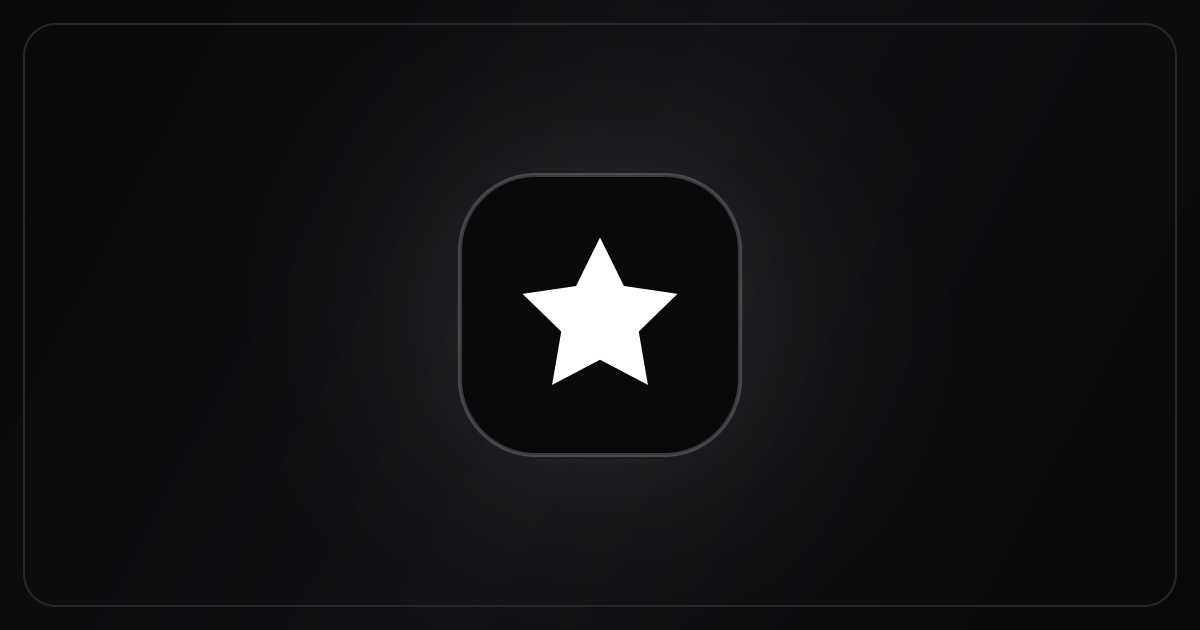
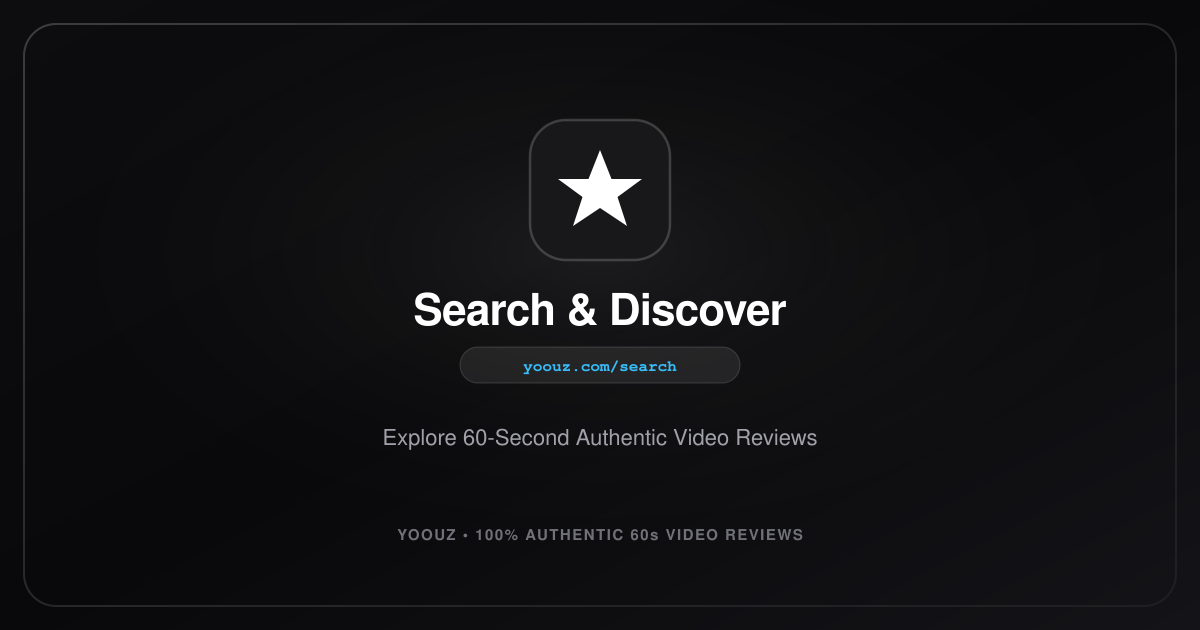
feat: implement dynamic OpenGraph image generation
Introduce `generateBrandOgCardBuffer` in `server.ts` to dynamically render custom OpenGraph cards and update meta tags to use the new API-driven endpoint.

diff --git a/server.ts b/server.ts
@@ -18254,6 +18254,65 @@ app.get('/api/og-preview-v2', async (req, res) => {
       }
     }
 
+    // Dynamic brand & page OpenGraph share card generator (Centered logo + Title/Button metadata)
+    async function generateBrandOgCardBuffer(title?: string, subtitle?: string, pathText?: string): Promise<Buffer> {
+      const safeTitle = (title || "Yoouz").replace(/&/g, "&amp;").replace(/</g, "&lt;").replace(/>/g, "&gt;").replace(/"/g, "&quot;");
+      const safeSubtitle = (subtitle || "Authentic 60-Second Video Reviews").replace(/&/g, "&amp;").replace(/</g, "&lt;").replace(/>/g, "&gt;").replace(/"/g, "&quot;");
+      let displayPath = (pathText || "yoouz.com").replace(/^https?:\/\//i, '').replace(/&/g, "&amp;").replace(/</g, "&lt;").replace(/>/g, "&gt;");
+      if (!displayPath.startsWith('yoouz.com')) {
+        displayPath = 'yoouz.com' + (displayPath.startsWith('/') ? displayPath : '/' + displayPath);
+      }
+
+      const svg = `<svg xmlns="http://www.w3.org/2000/svg" viewBox="0 0 1200 630" width="1200" height="630">
+  <defs>
+    <linearGradient id="brandBg" x1="0%" y1="0%" x2="100%" y2="100%">
+      <stop offset="0%" stop-color="#0e0e12"/>
+      <stop offset="50%" stop-color="#09090b"/>
+      <stop offset="100%" stop-color="#14141a"/>
+    </linearGradient>
+    <radialGradient id="brandGlow" cx="50%" cy="38%" r="55%">
+      <stop offset="0%" stop-color="#ffffff" stop-opacity="0.09"/>
+      <stop offset="100%" stop-color="#000000" stop-opacity="0"/>
+    </radialGradient>
+    <linearGradient id="brandBorderGrad" x1="0%" y1="0%" x2="100%" y2="100%">
+      <stop offset="0%" stop-color="rgba(255,255,255,0.22)"/>
+      <stop offset="100%" stop-color="rgba(255,255,255,0.06)"/>
+    </linearGradient>
+  </defs>
+
+  <!-- Background Base -->
+  <rect width="1200" height="630" fill="url(#brandBg)"/>
+  <rect width="1200" height="630" fill="url(#brandGlow)"/>
+
+  <!-- Outer Frame -->
+  <rect x="24" y="24" width="1152" height="582" rx="32" fill="none" stroke="url(#brandBorderGrad)" stroke-width="2"/>
+
+  <!-- Centered Logo Emblem Squircle in middle -->
+  <g transform="translate(530, 115)">
+    <rect width="140" height="140" rx="36" fill="#18181b" stroke="rgba(255,255,255,0.22)" stroke-width="2.5"/>
+    <!-- White Star Icon -->
+    <path d="M70 28 L81.5 57 L112 57 L87.5 75 L97 104 L70 86 L43 104 L52.5 75 L28 57 L58.5 57 Z" fill="#ffffff"/>
+  </g>
+
+  <!-- Title / Button Name -->
+  <text x="600" y="325" text-anchor="middle" fill="#ffffff" font-family="-apple-system, BlinkMacSystemFont, 'SF Pro Display', 'Segoe UI', Roboto, Helvetica, sans-serif" font-weight="800" font-size="44" letter-spacing="-0.02em">${safeTitle}</text>
+
+  <!-- URL Path Pill Badge -->
+  <g transform="translate(600, 370)">
+    <rect x="-160" y="-20" width="320" height="40" rx="20" fill="rgba(255,255,255,0.08)" stroke="rgba(255,255,255,0.16)" stroke-width="1"/>
+    <text x="0" y="6" text-anchor="middle" fill="#38bdf8" font-family="-apple-system, BlinkMacSystemFont, 'SF Mono', Menlo, monospace" font-weight="600" font-size="17">${displayPath}</text>
+  </g>
+
+  <!-- Subtitle -->
+  <text x="600" y="450" text-anchor="middle" fill="#a1a1aa" font-family="-apple-system, BlinkMacSystemFont, 'SF Pro Text', 'Segoe UI', Roboto, Helvetica, sans-serif" font-weight="500" font-size="22">${safeSubtitle}</text>
+
+  <!-- Bottom Brand Footnote -->
+  <text x="600" y="540" text-anchor="middle" fill="#71717a" font-family="-apple-system, BlinkMacSystemFont, 'SF Pro Text', 'Segoe UI', Roboto, Helvetica, sans-serif" font-weight="600" font-size="15" letter-spacing="0.1em">YOOUZ • 100% AUTHENTIC 60s VIDEO REVIEWS</text>
+</svg>`;
+
+      return await sharp(Buffer.from(svg)).png().toBuffer();
+    }
+
     // High-fidelity video share card buffer generator
     async function generateVideoShareCardBuffer(videoId: string, queryParams: Record<string, any>, baseUrl: string): Promise<Buffer> {
       let thumbBuf: Buffer | null = null;
@@ -19006,12 +19065,11 @@ app.get('/api/og-preview-v2', async (req, res) => {
       return res.end(finalImage);
     }
 
-    app.all(['/api/og', '/api/og.png', '/api/og-image', '/api/og-image.png', '/og-banner.png', '/og-image.png'], async (req: any, res: any) => {
+    app.all(['/api/og', '/api/og.png', '/api/og-image', '/api/og-image.png', '/og-banner.png', '/og-image.png', '/api/og-banner/brand.png', '/api/og-banner/page.png', '/api/og-banner/brand'], async (req: any, res: any) => {
       try {
         const host = req.headers['x-forwarded-host'] || req.headers.host || 'yoouz.com';
         const protocol = (!host.includes('localhost') && !host.includes('127.0.0.1')) ? 'https' : (req.protocol || 'http');
         const baseUrl = `${protocol}://${host}`;
-        const ogBannerPath = path.join(process.cwd(), 'public', 'og-banner.png');
         const query = sanitizeQueryParams(req.query);
 
         let type = (query.type as string) || "";
@@ -19020,13 +19078,6 @@ app.get('/api/og-preview-v2', async (req, res) => {
           else if (query.domain || query.logoUrl || query.website || query.place || query.placeId) type = "place";
           else if (query.avatarUrl || query.handle || query.creator || query.user) type = "creator";
           else type = "homepage";
-        }
-
-        if (type === 'homepage' && fs.existsSync(ogBannerPath)) {
-          res.setHeader("Content-Type", "image/png");
-          res.setHeader("Access-Control-Allow-Origin", "*");
-          res.setHeader("Cache-Control", "public, max-age=31536000, immutable");
-          return res.sendFile(ogBannerPath);
         }
 
         if (type === 'video') {
@@ -19048,54 +19099,19 @@ app.get('/api/og-preview-v2', async (req, res) => {
           return serveCreatorOgImage(req, res, baseUrl);
         }
 
-        // Default fallback for non-video OG images (Clean centered brand icon emblem, NO text)
-        const defaultSvg = `<svg width="1200" height="630" viewBox="0 0 1200 630" fill="none" xmlns="http://www.w3.org/2000/svg">
-          <defs>
-            <linearGradient id="defGrad" x1="0" y1="0" x2="1200" y2="630" gradientUnits="userSpaceOnUse">
-              <stop offset="0%" stop-color="#09090b"/>
-              <stop offset="50%" stop-color="#111115"/>
-              <stop offset="100%" stop-color="#09090b"/>
-            </linearGradient>
-            <radialGradient id="defStarGlow" cx="600" cy="315" r="400" gradientUnits="userSpaceOnUse">
-              <stop offset="0%" stop-color="#ffffff" stop-opacity="0.14"/>
-              <stop offset="50%" stop-color="#ffffff" stop-opacity="0.03"/>
-              <stop offset="100%" stop-color="#000000" stop-opacity="0"/>
-            </radialGradient>
-          </defs>
+        // For all non-video pages/buttons (Homepage, Business, Search, Following, Messages, etc.)
+        // Generate a dynamic card featuring OUR LOGO in the middle + Title/Button metadata
+        const titleParam = (query.title as string) || (query.name as string) || "Yoouz";
+        const subtitleParam = (query.subtitle as string) || (query.desc as string) || "Authentic 60-Second Video Reviews";
+        const pathParam = (query.path as string) || (query.button as string) || (query.url as string) || "yoouz.com";
 
-          <!-- Background Base -->
-          <rect width="1200" height="630" fill="url(#defGrad)"/>
-          <rect width="1200" height="630" fill="url(#defStarGlow)"/>
-
-          <!-- Outer Border Frame -->
-          <rect x="24" y="24" width="1152" height="582" rx="32" fill="none" stroke="#27272a" stroke-width="2"/>
-
-          <!-- Centered Icon Only (Dark Squircle with White Star Emblem) -->
-          <g transform="translate(460, 175)">
-            <rect width="280" height="280" rx="76" fill="#09090b" stroke="rgba(255, 255, 255, 0.2)" stroke-width="4"/>
-            <g transform="translate(47, 47) scale(7.75)">
-              <path d="M12 2l3.09 6.26L22 9.27l-5 4.87 1.18 6.88L12 17.77l-6.18 3.25L7 14.14 2 9.27l6.91-1.01L12 2z" fill="#ffffff"/>
-            </g>
-          </g>
-        </svg>`;
-
-        if (fs.existsSync(ogBannerPath)) {
-          res.setHeader("Content-Type", "image/png");
-          res.setHeader("Access-Control-Allow-Origin", "*");
-          res.setHeader("Cache-Control", "public, max-age=31536000, immutable");
-          return res.sendFile(ogBannerPath);
-        }
-
-        const fallbackBuf = await sharp(Buffer.from(defaultSvg), { density: 150 })
-          .resize(1200, 630)
-          .png({ palette: false, quality: 100, compressionLevel: 6, force: true })
-          .toBuffer();
+        const brandBuf = await generateBrandOgCardBuffer(titleParam, subtitleParam, pathParam);
 
         res.setHeader("Content-Type", "image/png");
-        res.setHeader("Content-Length", fallbackBuf.length);
+        res.setHeader("Content-Length", brandBuf.length);
         res.setHeader("Access-Control-Allow-Origin", "*");
-        res.setHeader("Cache-Control", "public, max-age=31536000, immutable");
-        return res.end(fallbackBuf);
+        res.setHeader("Cache-Control", "public, max-age=86400, stale-while-revalidate=604800");
+        return res.end(brandBuf);
       } catch (e: any) {
         console.error("OG Image Error:", e);
         return res.status(500).send("Error generating image");
@@ -20027,7 +20043,7 @@ function injectOpenGraphTags(html: string, meta: any) {
     const publicBase = baseUrl;
     let title = "Yoouz - Authentic 60-Second Video Reviews";
     let description = "Yoouz is the premier authentic video review platform. Real people record genuine 60-second live video testimonials with zero fake reviews.";
-    let imageUrl = `${publicBase}/og-banner.png?v=8`;
+    let imageUrl = `${publicBase}/api/og-banner/brand.png?title=${encodeURIComponent("Yoouz")}&subtitle=${encodeURIComponent("Authentic 60-Second Video Reviews")}&path=${encodeURIComponent("yoouz.com/")}&v=25`;
     let videoUrl = "";
     let embedUrl = "";
     let type = "website";
@@ -20428,7 +20444,7 @@ function injectOpenGraphTags(html: string, meta: any) {
     } else if (pathname === '/business' || pathname.startsWith('/business') || pathname === '/claim') {
         title = "Yoouz for Business | Verified Merchant Portal & Video Reviews";
         description = "Claim and verify your official business profile on Yoouz. Showcase authentic 60-second customer video reviews, embed trust widgets, and eliminate fake text reviews.";
-        imageUrl = `${publicBase}/og-banner.png?v=8`;
+        imageUrl = `${publicBase}/api/og-banner/brand.png?title=${encodeURIComponent("Yoouz for Business")}&subtitle=${encodeURIComponent("Verified Merchant Portal & Video Reviews")}&path=${encodeURIComponent("yoouz.com/business")}&v=25`;
         keywords = "Yoouz business, claim business, authentic video reviews, verified merchant, customer video testimonials, embed video reviews, anti-fake reviews";
         structuredData = {
           "@context": "https://schema.org",
@@ -20447,6 +20463,43 @@ function injectOpenGraphTags(html: string, meta: any) {
             }
           ]
         };
+    } else if (pathname === '/search' || pathname.startsWith('/search')) {
+        const queryTerm = params.get('q') || params.get('query') || '';
+        title = queryTerm ? `Search Video Reviews for "${queryTerm}" | Yoouz` : "Search Video Reviews | Yoouz";
+        description = queryTerm 
+          ? `Discover authentic 60-second customer video reviews for "${queryTerm}" on Yoouz.`
+          : "Search thousands of authentic 60-second video reviews recorded live by real customers for local businesses and places.";
+        imageUrl = `${publicBase}/api/og-banner/brand.png?title=${encodeURIComponent(queryTerm ? `Search: ${queryTerm}` : "Search Video Reviews")}&subtitle=${encodeURIComponent("Explore Authentic 60s Testimonials")}&path=${encodeURIComponent("yoouz.com/search")}&v=25`;
+    } else if (pathname === '/following' || pathname.startsWith('/following')) {
+        title = "Following & Community Feed | Yoouz";
+        description = "Stay up to date with genuine video reviews from reviewers and creators you follow on Yoouz.";
+        imageUrl = `${publicBase}/api/og-banner/brand.png?title=${encodeURIComponent("Following Feed")}&subtitle=${encodeURIComponent("Live Video Updates from Creators You Follow")}&path=${encodeURIComponent("yoouz.com/following")}&v=25`;
+    } else if (pathname === '/messages' || pathname.startsWith('/messages') || pathname.startsWith('/chat')) {
+        title = "Messages & Direct Chat | Yoouz";
+        description = "Connect directly with video reviewers, local business owners, and community members on Yoouz.";
+        imageUrl = `${publicBase}/api/og-banner/brand.png?title=${encodeURIComponent("Direct Messages")}&subtitle=${encodeURIComponent("Connect with Reviewers & Merchants")}&path=${encodeURIComponent("yoouz.com/messages")}&v=25`;
+    } else if (pathname === '/map' || pathname.startsWith('/map')) {
+        title = "Interactive Video Review Map | Yoouz";
+        description = "Explore real 60-second video reviews near you on the interactive Yoouz map.";
+        imageUrl = `${publicBase}/api/og-banner/brand.png?title=${encodeURIComponent("Video Review Map")}&subtitle=${encodeURIComponent("Discover Nearby Verified Video Reviews")}&path=${encodeURIComponent("yoouz.com/map")}&v=25`;
+    } else if (pathname === '/notifications' || pathname.startsWith('/notifications')) {
+        title = "Notifications & Activity | Yoouz";
+        description = "Check your latest video review reactions, comments, followers, and business updates on Yoouz.";
+        imageUrl = `${publicBase}/api/og-banner/brand.png?title=${encodeURIComponent("Notifications")}&subtitle=${encodeURIComponent("Reactions, Comments & Verified Updates")}&path=${encodeURIComponent("yoouz.com/notifications")}&v=25`;
+    } else if (pathname === '/bookmarks' || pathname.startsWith('/bookmarks') || pathname.startsWith('/saved')) {
+        title = "Saved Video Reviews & Bookmarks | Yoouz";
+        description = "View your saved 60-second video reviews and bookmarked local places on Yoouz.";
+        imageUrl = `${publicBase}/api/og-banner/brand.png?title=${encodeURIComponent("Saved Bookmarks")}&subtitle=${encodeURIComponent("Your Favorite 60-Second Video Reviews")}&path=${encodeURIComponent("yoouz.com/bookmarks")}&v=25`;
+    } else if (pathname === '/privacy' || pathname === '/terms' || pathname === '/faq' || pathname === '/community-guidelines') {
+        const pageName = pathname.replace('/', '').replace(/[-_]/g, ' ').toUpperCase();
+        title = `${pageName} | Yoouz`;
+        description = `Official ${pageName} information for Yoouz - Authentic 60-Second Video Reviews.`;
+        imageUrl = `${publicBase}/api/og-banner/brand.png?title=${encodeURIComponent(pageName)}&subtitle=${encodeURIComponent("Official Policy & Information")}&path=${encodeURIComponent("yoouz.com" + pathname)}&v=25`;
+    } else if (pathname !== '/' && !detectedVideoId && !placeId && !creatorHandle) {
+        const sectionTitle = pathname.replace('/', '').replace(/[-_]/g, ' ').replace(/\b\w/g, l => l.toUpperCase());
+        title = `${sectionTitle} | Yoouz`;
+        description = `Explore ${sectionTitle} on Yoouz - Authentic 60-Second Video Reviews.`;
+        imageUrl = `${publicBase}/api/og-banner/brand.png?title=${encodeURIComponent(sectionTitle)}&subtitle=${encodeURIComponent("Authentic 60-Second Video Reviews")}&path=${encodeURIComponent("yoouz.com" + pathname)}&v=25`;
     }
 
     if (!structuredData) {

diff --git a/index.html b/index.html
@@ -56,8 +56,8 @@
     <meta property="og:title" content="Yoouz - Authentic 60-Second Video Reviews" />
     <meta property="og:description" content="Yoouz is the premier authentic video review platform. Real people record genuine 60-second live video testimonials with zero fake reviews." />
     <meta property="og:url" content="https://yoouz.com/" />
-    <meta property="og:image" content="https://yoouz.com/og-banner.png?v=8" />
-    <meta property="og:image:secure_url" content="https://yoouz.com/og-banner.png?v=8" />
+    <meta property="og:image" content="https://yoouz.com/api/og-banner/brand.png?v=25" />
+    <meta property="og:image:secure_url" content="https://yoouz.com/api/og-banner/brand.png?v=25" />
     <meta property="og:image:type" content="image/png" />
     <meta property="og:image:width" content="1200" />
     <meta property="og:image:height" content="630" />
@@ -69,7 +69,7 @@
     <meta name="twitter:creator" content="@Yoouz" />
     <meta name="twitter:title" content="Yoouz - Authentic 60-Second Video Reviews" />
     <meta name="twitter:description" content="Yoouz is the premier authentic video review platform. Real people record genuine 60-second live video testimonials with zero fake reviews." />
-    <meta name="twitter:image" content="https://yoouz.com/og-banner.png?v=8" />
+    <meta name="twitter:image" content="https://yoouz.com/api/og-banner/brand.png?v=25" />
     <meta name="twitter:image:alt" content="Yoouz - Official Icon Emblem" />
 
     <!-- Structured Data (JSON-LD) for Search Engines and AI Grounding (Google SGE, Perplexity, ChatGPT, Bing) -->
